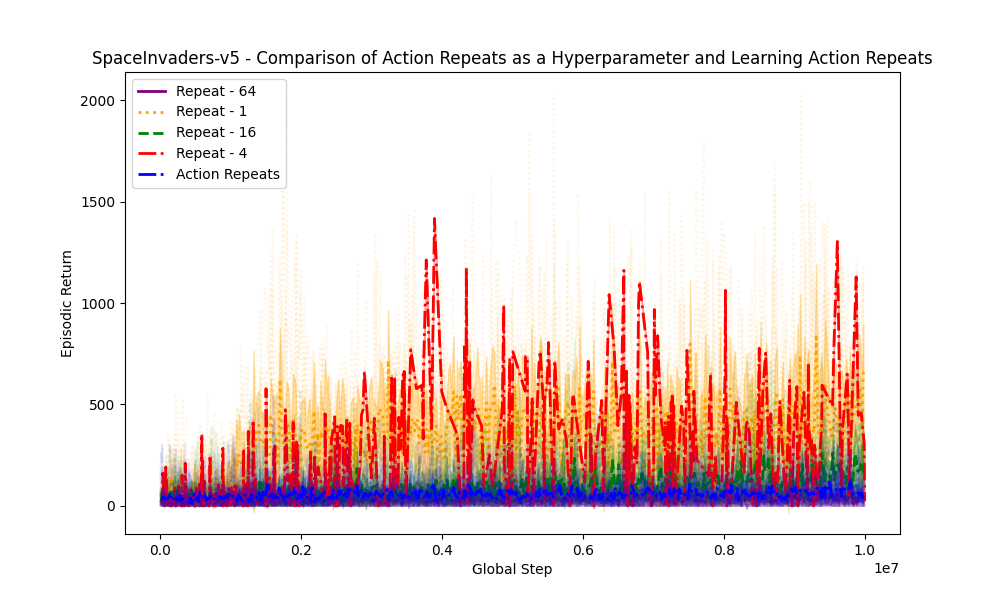
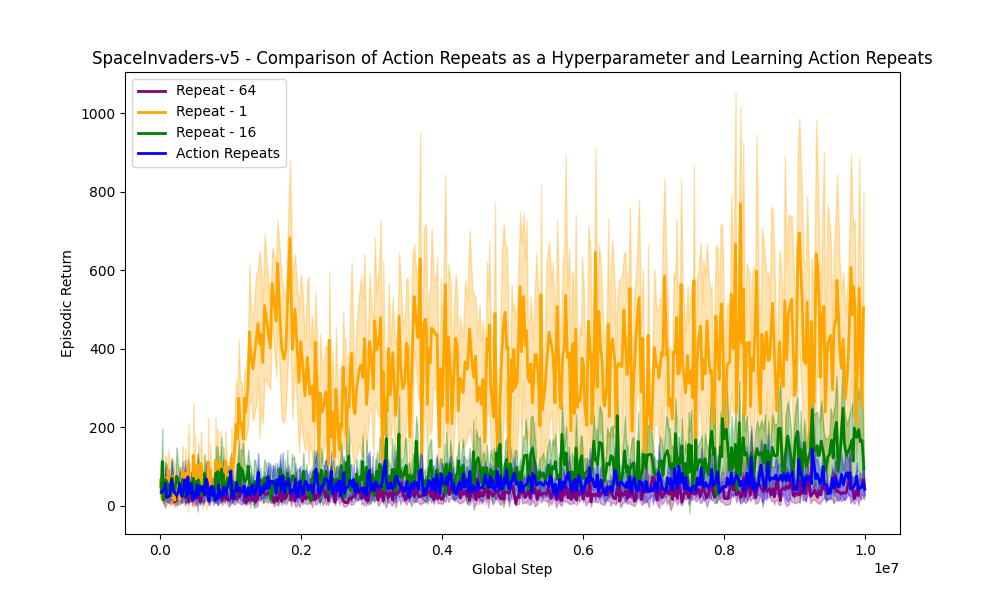
updated graphs with moving average

diff --git a/pfrl/pull_results/moving_average.py b/pfrl/pull_results/moving_average.py
@@ -1,0 +1,39 @@
+import pandas as pd
+import os
+from dataclasses import dataclass
+import tyro
+
+'''Creates rolling/window avg from graphing csv files'''
+
+@dataclass
+class Args:
+    data_dir: str = "./data_AR/"
+    data_env: str = "SpaceInvaders-v5"
+    project_name: str = "Learn_AR_SI_2.0"
+    save_dir: str = 'avg_graphing'  
+    window: int = 25
+
+
+def avg_data(folder, window=25):
+    data_path = os.path.join(args.data_dir, args.project_name, args.data_env, 'graphing')
+    for file in os.listdir(data_path):
+        df = pd.read_csv(os.path.join(data_path,file))
+        df['charts/episodic_return'] = df['charts/episodic_return'].rolling(window=window).mean()
+        df.dropna(subset=['charts/episodic_return'], inplace=True)
+        # make a new folder for avg_graphing
+        save_path = os.path.join(folder, file) # same name but different folder
+        df.to_csv(save_path, index=False)
+
+
+
+if __name__=="__main__":
+
+    args = tyro.cli(Args)
+
+    # Define where to store the files
+    folder = os.path.join(args.data_dir, args.project_name, args.data_env, args.save_dir)
+    if not os.path.exists(folder):
+        os.makedirs(folder)
+
+    avg_data(folder, 25)
+
